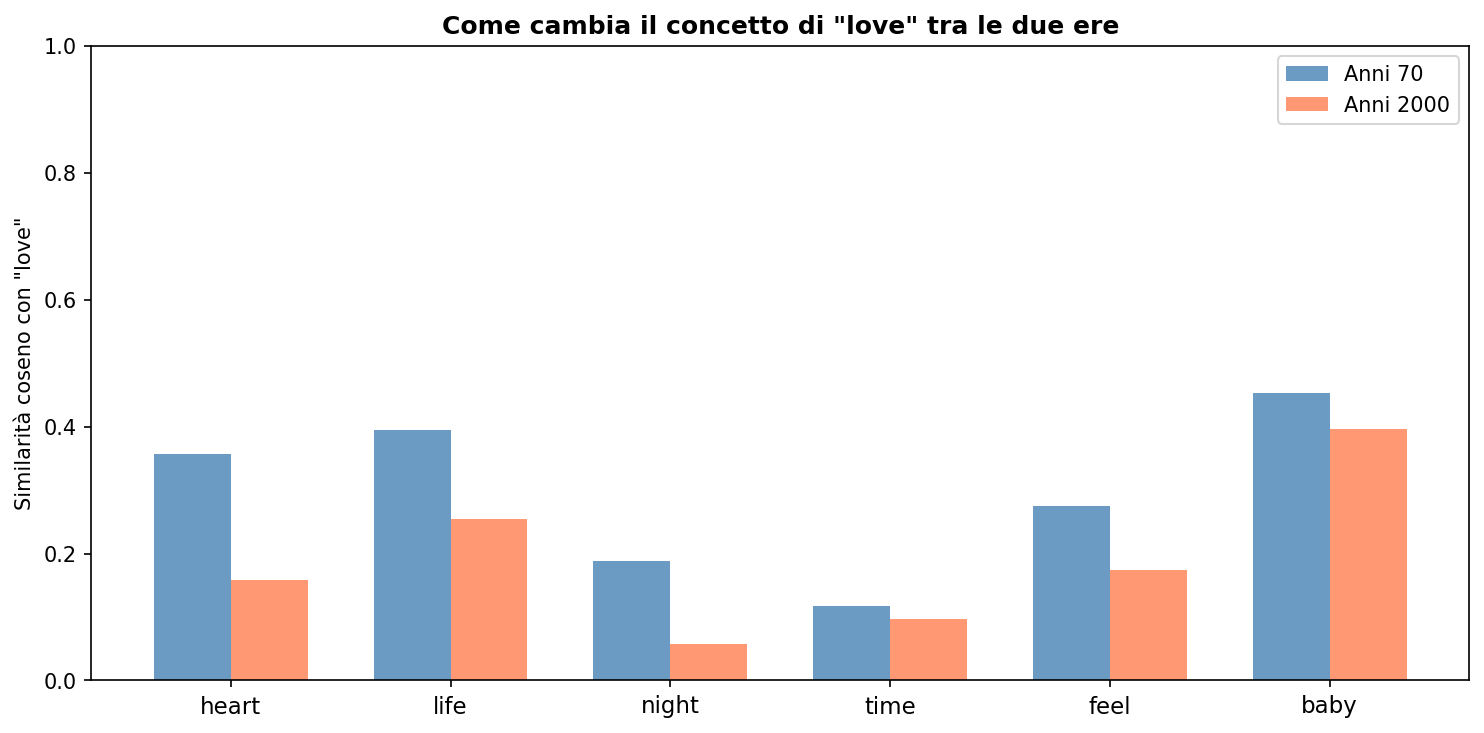
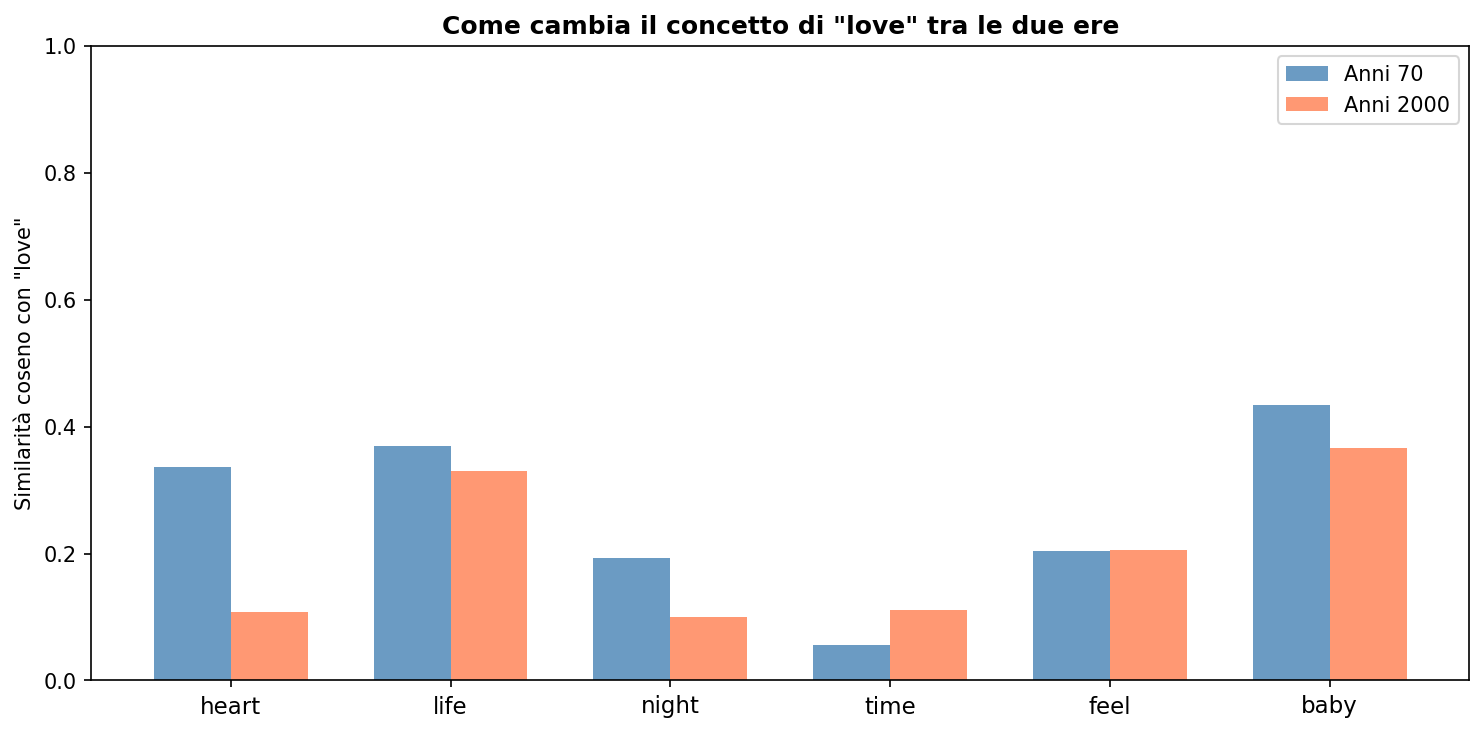
modifica artista

diff --git a/TLN/Parte2Radicioni/lab8_word2vec.py b/TLN/Parte2Radicioni/lab8_word2vec.py
@@ -51,7 +51,7 @@ artisti_70s = [
 
 artisti_2000s = [
     'Eminem', 'Coldplay', 'Linkin Park',
-    'Kanye West', 'Radiohead', 'Foo Fighters',
+    'Christina Aguilera', 'Radiohead', 'Foo Fighters',
     'Lady Gaga', 'Taylor Swift', 'The Killers',
     'Green Day', 'Nickelback'
 ]
